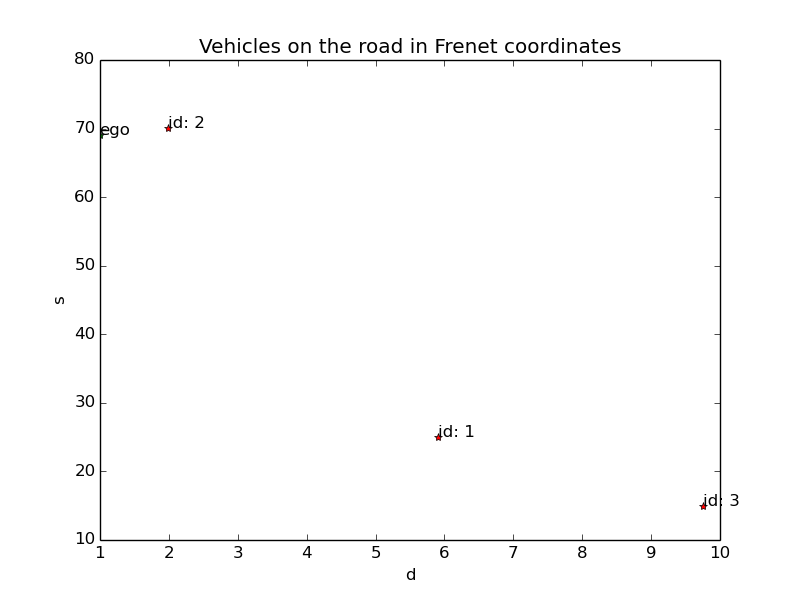
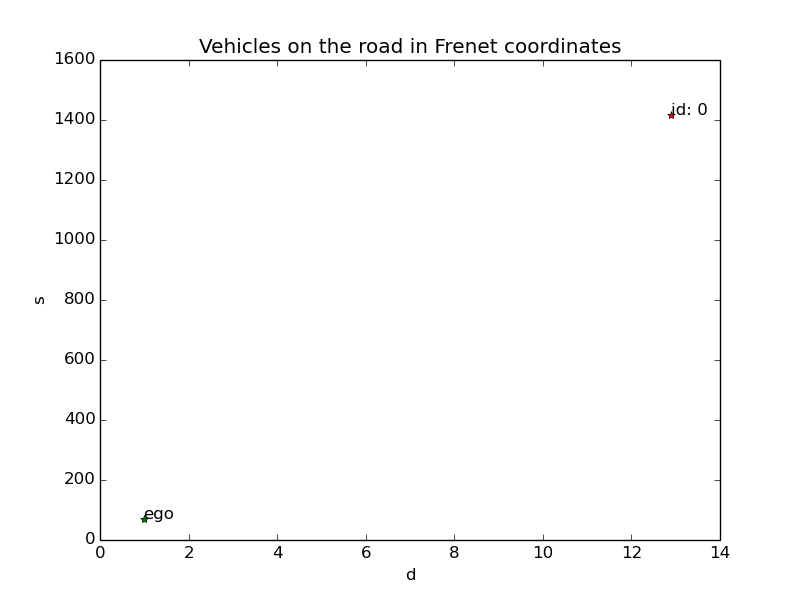
Bugfixing: Vehicle Prediction

diff --git a/src/vehicle.cpp b/src/vehicle.cpp
@@ -45,14 +45,52 @@ void Vehicle::Move(double delta_t)
 // ----------------------------------------------------------------------------
 Point Vehicle::PredictPosition(double delta_t) const
 {
-  const double current_x = this->position.GetX();
-  const double current_y = this->position.GetY();
-  const double current_vx = speed * cos(yaw);
-  const double current_vy = speed * sin(yaw);
-  const double future_x = current_x + current_vx * delta_t;
-  const double future_y = current_y + current_vy * delta_t;
+  // The idea here is to assume constant velocity and constant yaw
+  // However, the yaw must be transformed into Frenet coordinate system
+  // so that the vehicle follow a line in that system.
+  // Algorithm:
+  //  Let pc0 be the current position of the vehicle in cartesian coordinates
+  //  and pf0 the same position in frenet. At the same time, let vc be the
+  //  velocity in cartesian coordinates. Then let pc1 be a point such:
+  //  pc1 = pc0 + normalize(vc) * 0.001
+  //  pf1 = Frenet(pc1)
+  //  Then we can calculate the angle in Frenet coordinates as the orientation
+  //  of the difference vector: 
+  //    vf = pf1 - pf0:
+  //  So,
+  //    yaw_frenet = atan2(vf.d, vf.s);
   
-  return PointCartesian(future_x, future_y);
+  // Current position in Cartesian coordinates
+  const double pc0x = this->position.GetX();
+  const double pc0y = this->position.GetY();
+  // Current velocity
+  const double vcx = speed * cos(yaw);
+  const double vcy = speed * sin(yaw);
+  // Scaled velocity
+  const double ds = 0.001;
+  const double vcsx = ds * vcx/speed;
+  const double vcsy = ds * vcy/speed;
+  // Aux position in Cartesian coordinates
+  const double pc1x = pc0x + vcsx;
+  const double pc1y = pc0y + vcsy;
+  // Current position in Frenet coordinates
+  const double pf0s = this->position.GetS();
+  const double pf0d = this->position.GetD();
+  // Aux position in Frenet coordinates
+  const PointFrenet pf1 = PointCartesian(pc1x, pc1y);
+  const double pf1s = pf1.s;
+  const double pf1d = pf1.d;
+  
+  // Orientation in Frenet system
+  const double yaw_frenet = atan2(pf1d - pf0d, pf1s - pf0s);
+  
+  // Prediction in Frenet system
+  const double vfs = speed * cos(yaw_frenet);
+  const double vfd = speed * sin(yaw_frenet);
+  const double future_s = pf0s + vfs * delta_t;
+  const double future_d = pf0d + vfd * delta_t;
+  
+  return PointFrenet(future_s, future_d);
 }
 
 // ----------------------------------------------------------------------------

diff --git a/src/tests/road.cpp b/src/tests/road.cpp
@@ -50,7 +50,7 @@ int main()
   
   // Convert Sensor fusion data from json to SensorData class:
   LOG(logINFO) << "Get environment sensor data 2";
-  for (const auto& sensed_vehicle : stub_environment_cost_function)
+  for (const auto& sensed_vehicle : stub_front_vehicle)
   {
     EnvironmentSensorData::SensedVehicleData data;
     data.id = sensed_vehicle[0];
@@ -71,7 +71,7 @@ int main()
   road.LogVehicles();
   
   // Predicts future road
-  Road future_road = road.PredictRoadTraffic(1);
+  Road future_road = road.PredictRoadTraffic(5);
   future_road.ego.Translate(PointFrenet(69, 1));
   future_road.LogVehicles();
   
